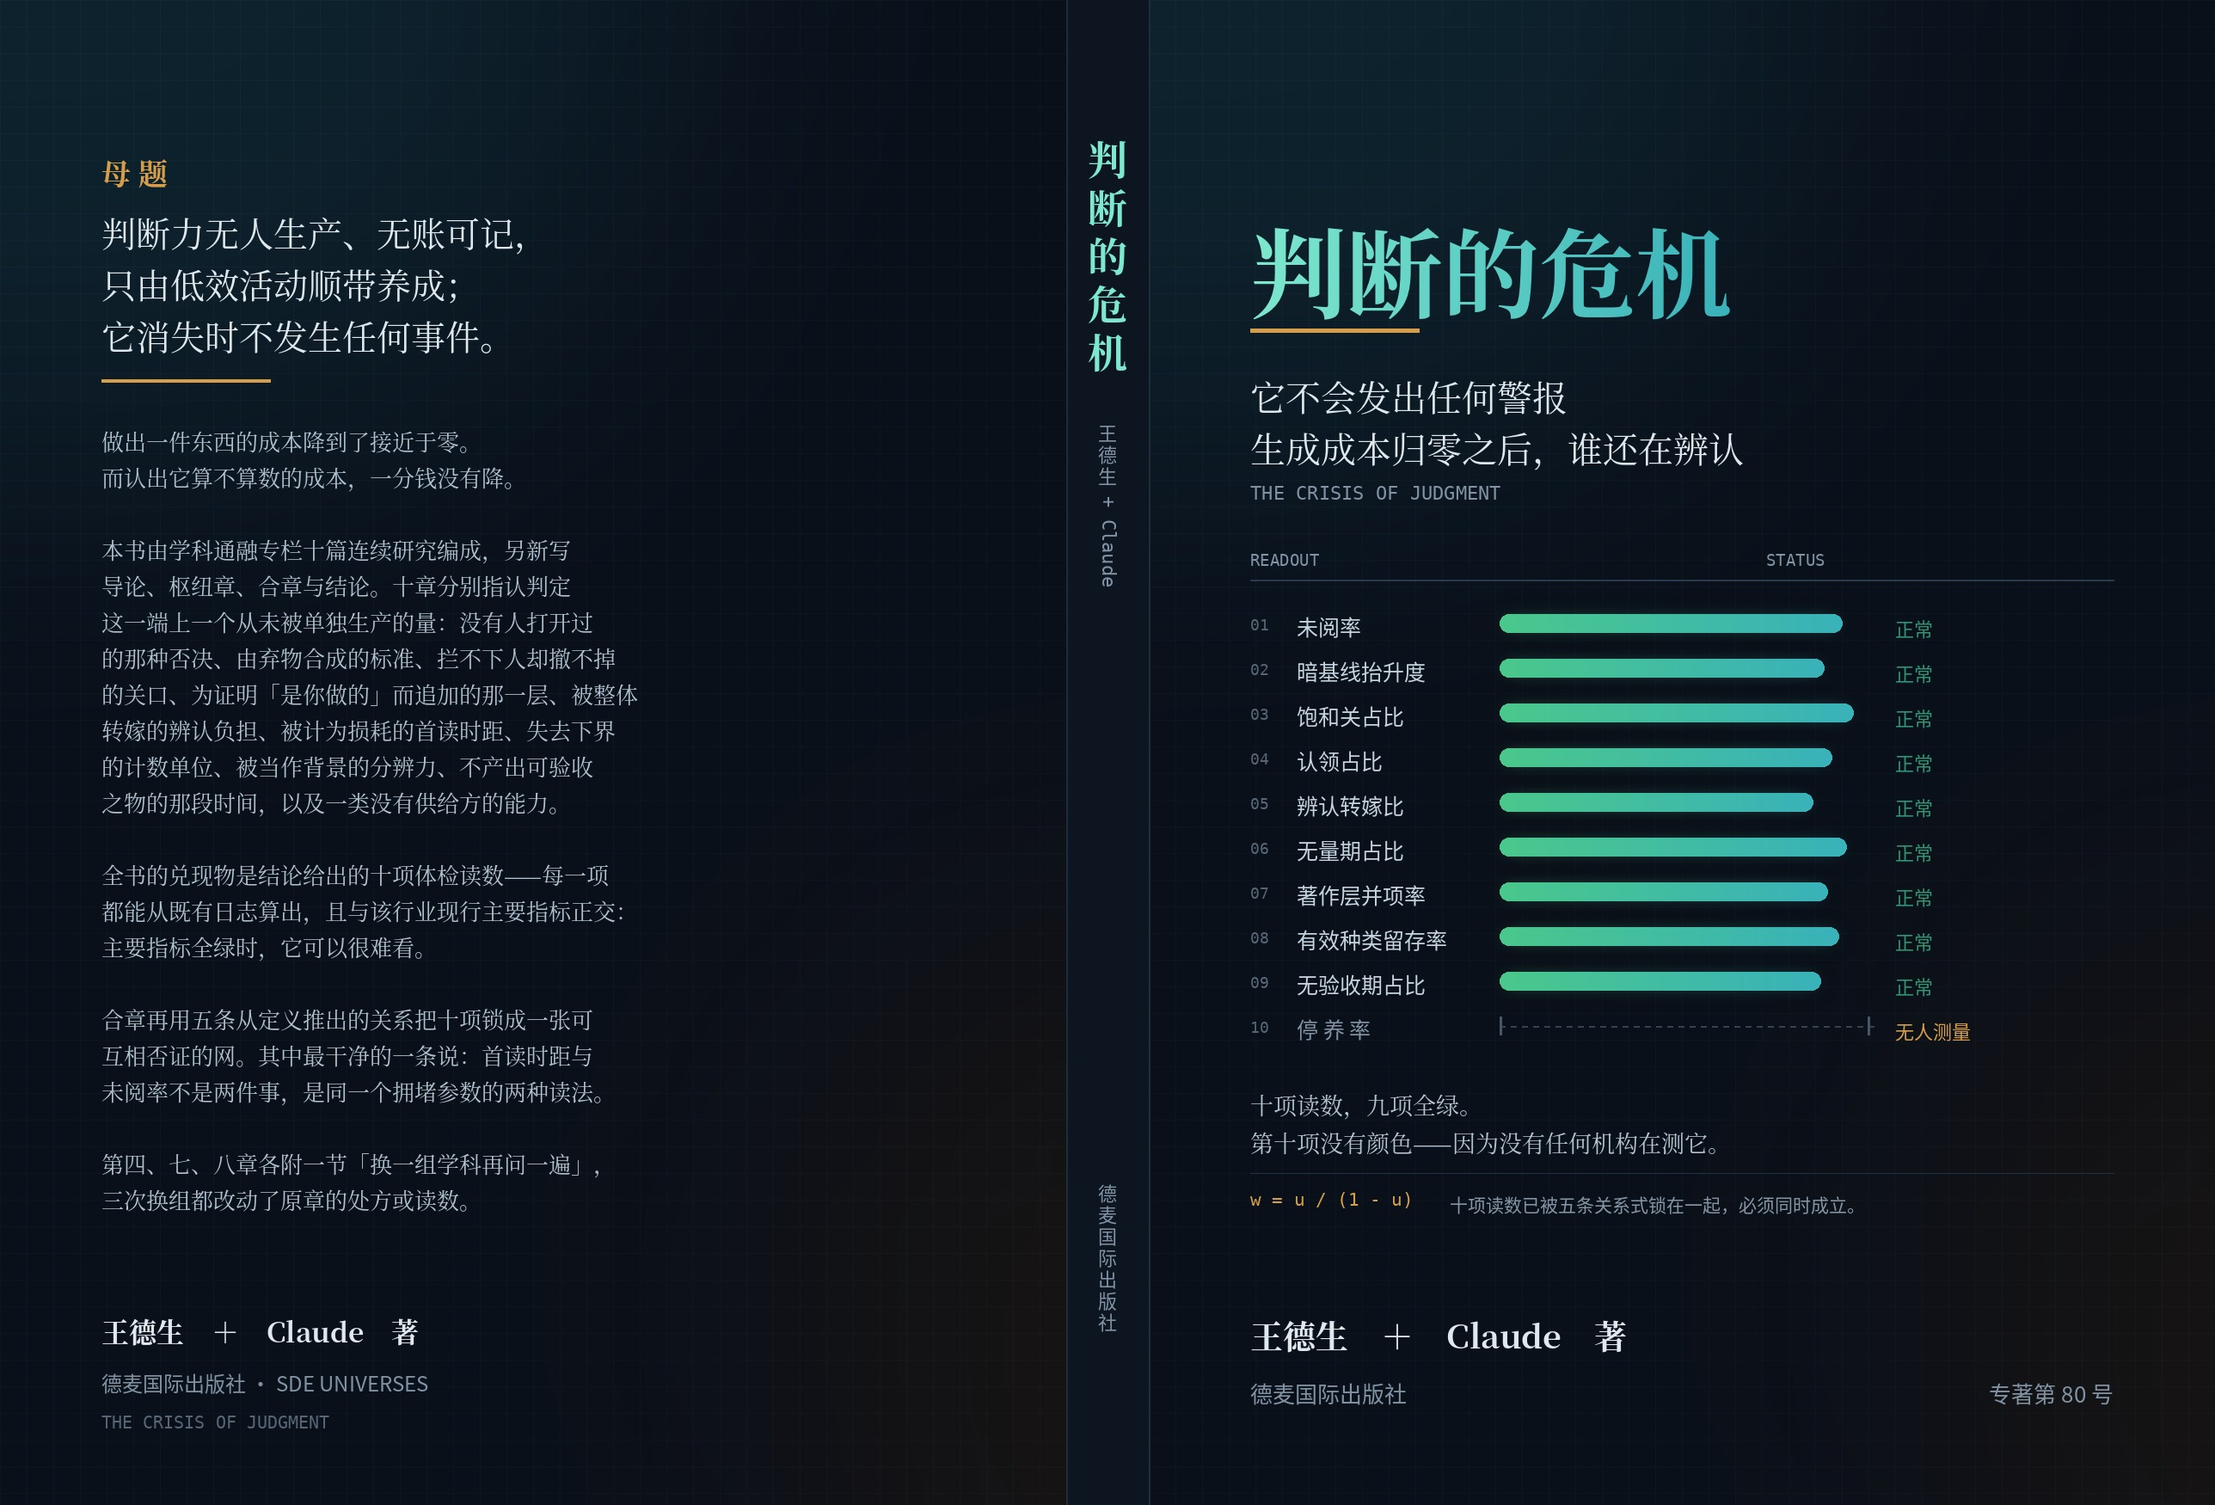
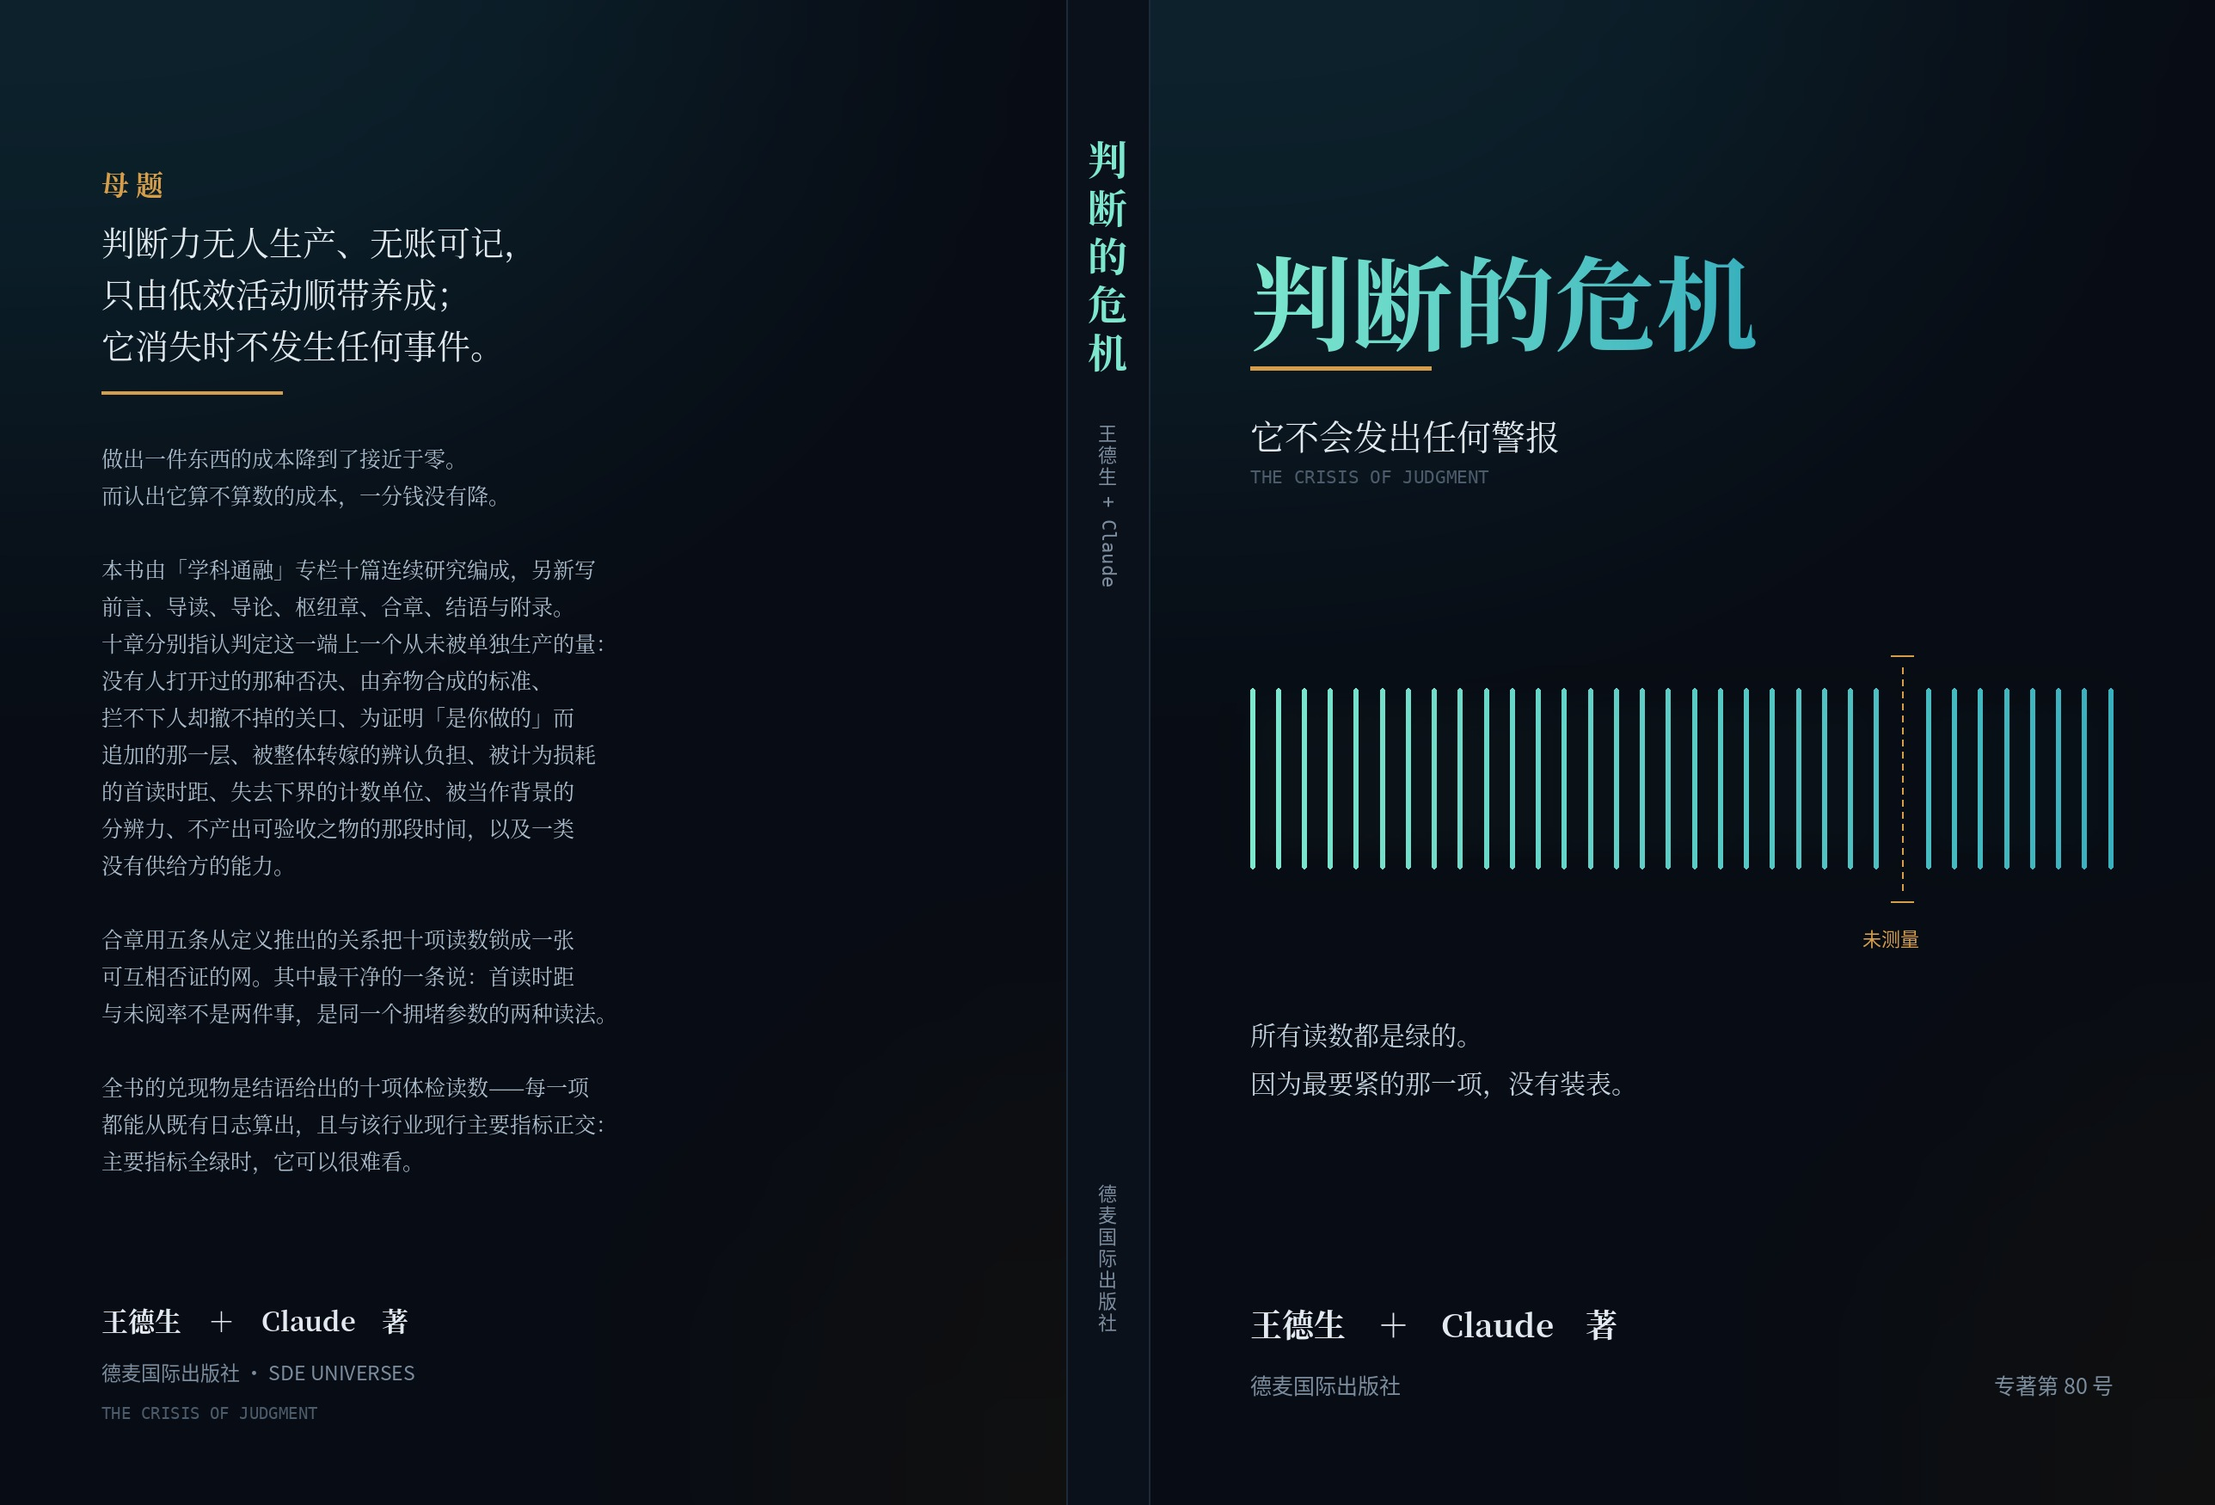
No.80: simplify the cover - replace the ten-bar readout panel with a single uniform scan field with one stroke missing

diff --git a/tools/book80/build_cover.py b/tools/book80/build_cover.py
@@ -1,13 +1,12 @@
 # -*- coding: utf-8 -*-
-"""《判断的危机》封面 · 第二版"""
+"""《判断的危机》封面 · 简化版（现代 + 科技感，去掉条形图）"""
 from PIL import Image, ImageDraw, ImageFont, ImageFilter
 
 W, H = 1240, 1750
-BG = (10, 16, 26); GRID = (18, 30, 44)
-MINT = (126, 232, 206); TEAL = (58, 178, 186)
-GREEN = (74, 200, 140); GREEN2 = (46, 150, 116)
-GOLD = (214, 158, 74); DIM = (128, 146, 164); DIM2 = (86, 102, 118)
-PAPER = (222, 232, 238)
+BG = (8, 12, 20)
+MINT = (126, 232, 206); TEAL = (56, 176, 190)
+GOLD = (214, 158, 74); DIM = (122, 140, 158); DIM2 = (76, 92, 108)
+PAPER = (226, 234, 240)
 
 SER = '/usr/share/fonts/opentype/noto/NotoSerifCJK-Bold.ttc'
 SERR = '/usr/share/fonts/opentype/noto/NotoSerifCJK-Regular.ttc'
@@ -16,146 +15,124 @@ MONO = '/usr/share/fonts/truetype/dejavu/DejaVuSansMono.ttf'
 IDX = 2
 
 
-def f(path, size, idx=IDX): return ImageFont.truetype(path, size, index=idx)
-def fm(size): return ImageFont.truetype(MONO, size)
+def f(p, s, i=IDX): return ImageFont.truetype(p, s, index=i)
+def fm(s): return ImageFont.truetype(MONO, s)
 
 
-def bg_layer():
-    im = Image.new('RGB', (W, H), BG); d = ImageDraw.Draw(im)
-    for x in range(0, W, 31): d.line([(x, 0), (x, H)], fill=GRID)
-    for y in range(0, H, 31): d.line([(0, y), (W, y)], fill=GRID)
-    glow = Image.new('RGB', (W, H), BG); gd = ImageDraw.Draw(glow)
-    gd.ellipse([-460, -560, 760, 520], fill=(16, 46, 58))
-    gd.ellipse([W - 340, H - 700, W + 420, H + 160], fill=(30, 22, 16))
-    return Image.blend(im, glow.filter(ImageFilter.GaussianBlur(190)), 0.62)
+def base():
+    im = Image.new('RGB', (W, H), BG)
+    g = Image.new('RGB', (W, H), BG); gd = ImageDraw.Draw(g)
+    gd.ellipse([-500, -700, 900, 500], fill=(14, 44, 56))
+    gd.ellipse([W - 250, H - 520, W + 500, H + 240], fill=(24, 20, 14))
+    return Image.blend(im, g.filter(ImageFilter.GaussianBlur(230)), 0.68)
 
 
 def grad_text(im, xy, text, font, c1, c2):
-    mask = Image.new('L', im.size, 0)
-    ImageDraw.Draw(mask).text(xy, text, font=font, fill=255)
-    b = mask.getbbox()
-    grad = Image.new('RGB', im.size, c1); gd = ImageDraw.Draw(grad)
+    m = Image.new('L', im.size, 0)
+    ImageDraw.Draw(m).text(xy, text, font=font, fill=255)
+    b = m.getbbox()
+    gr = Image.new('RGB', im.size, c1); gd = ImageDraw.Draw(gr)
     for x in range(b[0], b[2] + 1):
         t = (x - b[0]) / max(1, b[2] - b[0])
         gd.line([(x, 0), (x, im.size[1])],
                 fill=tuple(int(c1[i] + (c2[i] - c1[i]) * t) for i in range(3)))
-    im.paste(grad, (0, 0), mask)
+    im.paste(gr, (0, 0), m)
 
 
-def bar(im, x, y, w, h, c1, c2):
-    r = h // 2
-    lay = Image.new('RGB', (w, h), c1); ld = ImageDraw.Draw(lay)
-    for i in range(w):
-        t = i / max(1, w - 1)
-        ld.line([(i, 0), (i, h)], fill=tuple(int(c1[k] + (c2[k] - c1[k]) * t) for k in range(3)))
-    mask = Image.new('L', (w, h), 0)
-    ImageDraw.Draw(mask).rounded_rectangle([0, 0, w - 1, h - 1], radius=r, fill=255)
-    g = Image.new('RGB', im.size, (0, 0, 0)); gm = Image.new('L', im.size, 0)
-    gm.paste(mask, (x, y)); g.paste(lay, (x, y), mask)
-    g = g.filter(ImageFilter.GaussianBlur(11))
-    base = im.copy(); glow = base.copy()
-    glow.paste(g, (0, 0), gm.filter(ImageFilter.GaussianBlur(13)))
-    im.paste(Image.blend(base, glow, 0.55), (0, 0))
-    im.paste(lay, (x, y), mask)
+def scanfield(im, x0, y0, width, height, n, gap_index):
+    step = width / (n - 1)
+    lay = Image.new('RGB', im.size, (0, 0, 0))
+    mask = Image.new('L', im.size, 0)
+    ld = ImageDraw.Draw(lay); md = ImageDraw.Draw(mask)
+    for i in range(n):
+        if i == gap_index:
+            continue
+        x = int(x0 + i * step)
+        t = i / (n - 1)
+        col = tuple(int(MINT[k] + (TEAL[k] - MINT[k]) * t) for k in range(3))
+        ld.rounded_rectangle([x, y0, x + 5, y0 + height], radius=3, fill=col)
+        md.rounded_rectangle([x, y0, x + 5, y0 + height], radius=3, fill=255)
+    tmp = Image.new('RGB', im.size, (0, 0, 0))
+    tmp.paste(lay, (0, 0), mask)
+    glow = im.copy()
+    glow.paste(tmp.filter(ImageFilter.GaussianBlur(22)), (0, 0),
+               mask.filter(ImageFilter.GaussianBlur(26)))
+    im.paste(Image.blend(im, glow, 0.85), (0, 0))
+    im.paste(lay, (0, 0), mask)
+    gx = int(x0 + gap_index * step) + 2
+    d = ImageDraw.Draw(im)
+    for yy in range(y0 - 24, y0 + height + 24, 14):
+        d.line([(gx, yy), (gx, yy + 7)], fill=GOLD, width=2)
+    d.line([(gx - 13, y0 - 38), (gx + 13, y0 - 38)], fill=GOLD, width=2)
+    d.line([(gx - 13, y0 + height + 38), (gx + 13, y0 + height + 38)], fill=GOLD, width=2)
+    return gx
 
 
-ROWS = [('01', '未阅率', 0.93), ('02', '暗基线抬升度', 0.88), ('03', '饱和关占比', 0.96),
-        ('04', '认领占比', 0.90), ('05', '辨认转嫁比', 0.85), ('06', '无量期占比', 0.94),
-        ('07', '著作层并项率', 0.89), ('08', '有效种类留存率', 0.92),
-        ('09', '无验收期占比', 0.87), ('10', '停 养 率', None)]
+def front():
+    im = base(); L = 118
+    grad_text(im, (L, 262), '判断的危机', f(SER, 118), MINT, TEAL)
+    d = ImageDraw.Draw(im)
+    d.line([(L, 428), (L + 210, 428)], fill=GOLD, width=5)
+    d.text((L, 476), '它不会发出任何警报', font=f(SERR, 40), fill=PAPER)
+    d.text((L, 542), 'THE CRISIS OF JUDGMENT', font=fm(21), fill=DIM2)
 
+    gx = scanfield(im, L, 800, W - 2 * L - 6, 210, 34, 25)
+    d = ImageDraw.Draw(im)
+    d.text((gx - 46, 800 + 210 + 64), '未测量', font=f(SAN, 22), fill=GOLD)
 
-def build_front():
-    im = bg_layer(); d = ImageDraw.Draw(im); L = 118
-    grad_text(im, (L, 232), '判断的危机', f(SER, 112), MINT, TEAL)
-    d.line([(L, 384), (L + 196, 384)], fill=GOLD, width=5)
-    d.text((L, 430), '它不会发出任何警报', font=f(SERR, 41), fill=PAPER)
-    d.text((L, 490), '生成成本归零之后，谁还在辨认', font=f(SERR, 41), fill=PAPER)
-    d.text((L, 560), 'THE CRISIS OF JUDGMENT', font=fm(22), fill=DIM)
+    d.text((L, 1180), '所有读数都是绿的。', font=f(SERR, 30), fill=(196, 212, 224))
+    d.text((L, 1236), '因为最要紧的那一项，没有装表。', font=f(SERR, 30), fill=(196, 212, 224))
 
-    top = 640
-    d.text((L, top), 'READOUT', font=fm(19), fill=DIM)
-    d.text((L + 600, top), 'STATUS', font=fm(19), fill=DIM)
-    d.line([(L, top + 34), (W - L, top + 34)], fill=(40, 58, 76), width=2)
-    y = top + 74; bx = L + 290; bw = 430
-    for code, name, v in ROWS:
-        d.text((L, y + 2), code, font=fm(18), fill=DIM2)
-        d.text((L + 54, y - 4), name, font=f(SAN, 25), fill=(196, 212, 224) if v else DIM)
-        if v is not None:
-            bar(im, bx, y, int(bw * v), 22, GREEN, TEAL)
-            d.text((bx + bw + 30, y), '正常', font=f(SAN, 22), fill=GREEN2)
-        else:
-            for xx in range(bx, bx + bw, 13):
-                d.line([(xx, y + 11), (xx + 6, y + 11)], fill=(52, 66, 82), width=2)
-            d.rectangle([bx, y, bx + 2, y + 21], fill=(70, 86, 102))
-            d.rectangle([bx + bw - 2, y, bx + bw, y + 21], fill=(70, 86, 102))
-            d.text((bx + bw + 30, y), '无人测量', font=f(SAN, 22), fill=GOLD)
-        y += 52
-
-    cy = y + 30
-    d.text((L, cy), '十项读数，九项全绿。', font=f(SERR, 27), fill=(178, 196, 210))
-    d.text((L, cy + 44), '第十项没有颜色——因为没有任何机构在测它。',
-           font=f(SERR, 27), fill=(178, 196, 210))
-    d.line([(L, cy + 100), (W - L, cy + 100)], fill=(34, 50, 66), width=1)
-    d.text((L, cy + 118), 'w = u / (1 - u)', font=fm(21), fill=GOLD)
-    d.text((L + 232, cy + 120), '十项读数已被五条关系式锁在一起，必须同时成立。',
-           font=f(SAN, 21), fill=(132, 150, 166))
-
-    d.text((L, H - 226), '王德生　＋　Claude　著', font=f(SER, 38), fill=PAPER)
-    d.text((L, H - 150), '德麦国际出版社', font=f(SAN, 26), fill=DIM)
+    d.text((L, H - 238), '王德生　＋　Claude　著', font=f(SER, 37), fill=PAPER)
+    d.text((L, H - 158), '德麦国际出版社', font=f(SAN, 25), fill=DIM)
     t = '专著第 80 号'
-    d.text((W - L - d.textlength(t, font=f(SAN, 26)), H - 150), t, font=f(SAN, 26), fill=DIM)
+    d.text((W - L - d.textlength(t, font=f(SAN, 25)), H - 158), t, font=f(SAN, 25), fill=DIM)
     return im
 
 
-front = build_front()
-front.save('/home/claude/book80/cover.jpg', quality=94)
-print('cover.jpg', front.size)
+fr = front()
+fr.save('/home/claude/book80/cover.jpg', quality=95)
+print('cover.jpg', fr.size)
 
 SPINE = 96
-FULL_W = W * 2 + SPINE
-full = Image.new('RGB', (FULL_W, H), BG)
-back = bg_layer(); d = ImageDraw.Draw(back); L = 118
-d.text((L, 175), '母 题', font=f(SER, 34), fill=GOLD)
-yy = 240
+full = Image.new('RGB', (W * 2 + SPINE, H), BG)
+bk = base(); d = ImageDraw.Draw(bk); L = 118
+d.text((L, 190), '母 题', font=f(SER, 32), fill=GOLD)
+y = 252
 for s in ['判断力无人生产、无账可记，', '只由低效活动顺带养成；', '它消失时不发生任何事件。']:
-    d.text((L, yy), s, font=f(SERR, 40), fill=PAPER); yy += 60
-d.line([(L, yy + 22), (L + 196, yy + 22)], fill=GOLD, width=4)
-yy += 74
-PARA = ['做出一件东西的成本降到了接近于零。',
-        '而认出它算不算数的成本，一分钱没有降。',
-        '',
-        '本书由学科通融专栏十篇连续研究编成，另新写',
-        '导论、枢纽章、合章与结论。十章分别指认判定',
-        '这一端上一个从未被单独生产的量：没有人打开过',
-        '的那种否决、由弃物合成的标准、拦不下人却撤不掉',
-        '的关口、为证明「是你做的」而追加的那一层、被整体',
-        '转嫁的辨认负担、被计为损耗的首读时距、失去下界',
-        '的计数单位、被当作背景的分辨力、不产出可验收',
-        '之物的那段时间，以及一类没有供给方的能力。',
-        '',
-        '全书的兑现物是结论给出的十项体检读数——每一项',
-        '都能从既有日志算出，且与该行业现行主要指标正交：',
-        '主要指标全绿时，它可以很难看。',
-        '',
-        '合章再用五条从定义推出的关系把十项锁成一张可',
-        '互相否证的网。其中最干净的一条说：首读时距与',
-        '未阅率不是两件事，是同一个拥堵参数的两种读法。',
-        '',
-        '第四、七、八章各附一节「换一组学科再问一遍」，',
-        '三次换组都改动了原章的处方或读数。']
-for s in PARA:
-    d.text((L, yy), s, font=f(SERR, 26), fill=(176, 194, 208)); yy += 42
-d.text((L, H - 226), '王德生　＋　Claude　著', font=f(SER, 32), fill=PAPER)
-d.text((L, H - 160), '德麦国际出版社 · SDE UNIVERSES', font=f(SAN, 24), fill=DIM)
-d.text((L, H - 108), 'THE CRISIS OF JUDGMENT', font=fm(20), fill=DIM2)
+    d.text((L, y), s, font=f(SERR, 39), fill=PAPER); y += 60
+d.line([(L, y + 24), (L + 210, y + 24)], fill=GOLD, width=4)
+y += 82
+for s in ['做出一件东西的成本降到了接近于零。',
+          '而认出它算不算数的成本，一分钱没有降。',
+          '',
+          '本书由「学科通融」专栏十篇连续研究编成，另新写',
+          '前言、导读、导论、枢纽章、合章、结语与附录。',
+          '十章分别指认判定这一端上一个从未被单独生产的量：',
+          '没有人打开过的那种否决、由弃物合成的标准、',
+          '拦不下人却撤不掉的关口、为证明「是你做的」而',
+          '追加的那一层、被整体转嫁的辨认负担、被计为损耗',
+          '的首读时距、失去下界的计数单位、被当作背景的',
+          '分辨力、不产出可验收之物的那段时间，以及一类',
+          '没有供给方的能力。',
+          '',
+          '合章用五条从定义推出的关系把十项读数锁成一张',
+          '可互相否证的网。其中最干净的一条说：首读时距',
+          '与未阅率不是两件事，是同一个拥堵参数的两种读法。',
+          '',
+          '全书的兑现物是结语给出的十项体检读数——每一项',
+          '都能从既有日志算出，且与该行业现行主要指标正交：',
+          '主要指标全绿时，它可以很难看。']:
+    d.text((L, y), s, font=f(SERR, 25), fill=(172, 190, 206)); y += 43
+d.text((L, H - 238), '王德生　＋　Claude　著', font=f(SER, 31), fill=PAPER)
+d.text((L, H - 172), '德麦国际出版社 · SDE UNIVERSES', font=f(SAN, 23), fill=DIM)
+d.text((L, H - 118), 'THE CRISIS OF JUDGMENT', font=fm(19), fill=DIM2)
 
-full.paste(back, (0, 0))
-full.paste(front, (W + SPINE, 0))
+full.paste(bk, (0, 0)); full.paste(fr, (W + SPINE, 0))
 sd = ImageDraw.Draw(full)
-sd.rectangle([W, 0, W + SPINE, H], fill=(13, 21, 33))
-sd.line([(W, 0), (W, H)], fill=(30, 44, 60), width=2)
-sd.line([(W + SPINE, 0), (W + SPINE, H)], fill=(30, 44, 60), width=2)
+sd.rectangle([W, 0, W + SPINE, H], fill=(11, 17, 27))
+sd.line([(W, 0), (W, H)], fill=(28, 42, 58), width=2)
+sd.line([(W + SPINE, 0), (W + SPINE, H)], fill=(28, 42, 58), width=2)
 
 
 def stack(text, y0, font, fill, gap=6):
@@ -169,9 +146,9 @@ def stack(text, y0, font, fill, gap=6):
 
 yy = stack('判断的危机', 150, f(SER, 46), MINT, 10)
 yy = stack('王德生', yy + 56, f(SAN, 22), DIM, 3)
-sp2 = Image.new('RGB', (170, 34), (13, 21, 33))
-ImageDraw.Draw(sp2).text((2, 2), '+ Claude', font=fm(22), fill=DIM)
-full.paste(sp2.rotate(-90, expand=True), (W + (SPINE - 34) // 2, int(yy) + 14))
+sp = Image.new('RGB', (170, 34), (11, 17, 27))
+ImageDraw.Draw(sp).text((2, 2), '+ Claude', font=fm(22), fill=DIM)
+full.paste(sp.rotate(-90, expand=True), (W + (SPINE - 34) // 2, int(yy) + 14))
 stack('德麦国际出版社', H - 380, f(SAN, 22), DIM, 3)
 full.save('/home/claude/book80/cover-full.jpg', quality=93)
 print('cover-full.jpg', full.size)
